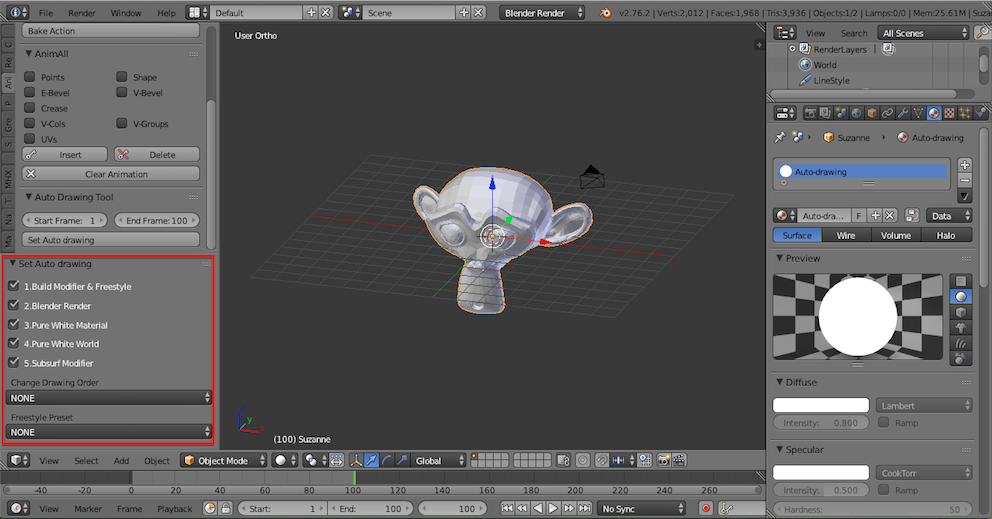
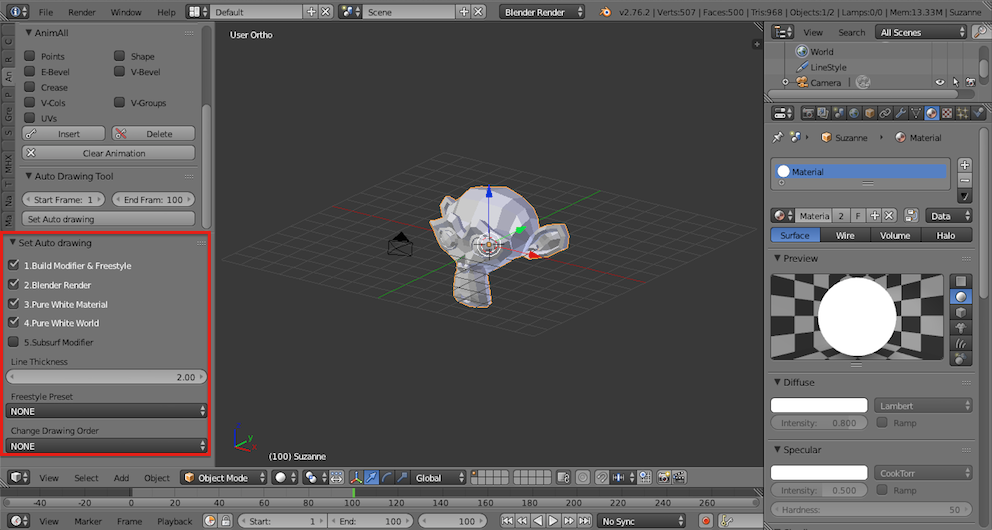
Change images on README.md

diff --git a/README.md b/README.md
@@ -33,6 +33,19 @@ You can turn on or off each settings for auto drawing.
 4. Pure White World.
 5. Subsurf Modifier.
 
+#### Line Thickness
+Change line thickness of Freestyle.
+
+#### Freestyle Preset
+Change the line style by Freestyle preset.
+
+* "NONE" = Default setting of Freetyle.
+* "MARKER_PEN" = Bolder line.
+* "BRUSH_PEN" = Different line thickness from start to end.
+* "SCRIBBLE" = Rough line.
+* "FREE_HAND" = Rough line and rough shape.
+* "CHILDISH" = More rough like child's drawing.
+
 #### Change Drawing Order
 Change order for build modifier by sorting index of face.
 
@@ -44,13 +57,3 @@ Change order for build modifier by sorting index of face.
 * "VIEW_XAXIS" = Sort along with X axis.
 * "SELECTED" = Sort from selected face.
 * "MATERIAL" = Sort by material.
-
-#### Freestyle Preset
-Change the line style by freestyle preset.
-
-* "NONE" = Default setting of freetyle.
-* "MARKER_PEN" = Bolder line.
-* "BRUSH_PEN" = Different line thickness from start to end.
-* "SCRIBBLE" = Rough line.
-* "FREE_HAND" = Rough line and rough shape.
-* "CHILDISH" = More rough like child's drawing.
